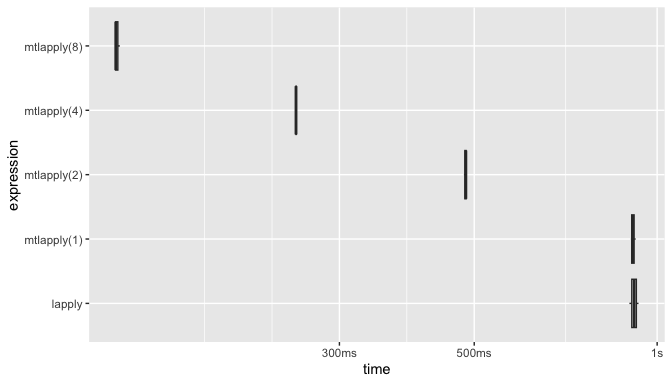
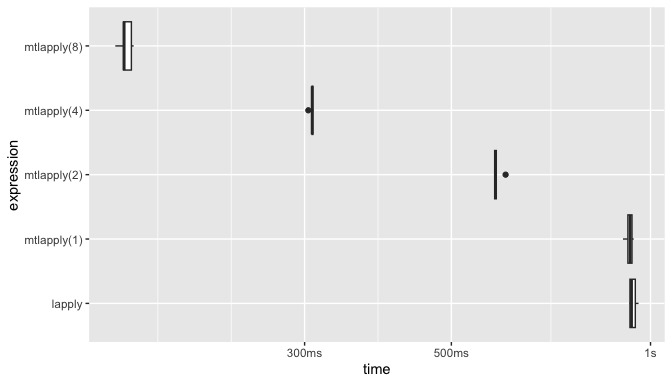
readme: refresh benchmark artifacts

diff --git a/README.md b/README.md
@@ -163,11 +163,11 @@ them:
     ## # A data frame: 5 × 13
     ##   expression    min median `itr/sec` mem_alloc `gc/sec` n_itr  n_gc total_time
     ##   <bch:expr>  <dbl>  <dbl>     <dbl> <bch:byt>    <dbl> <int> <dbl>      <dbl>
-    ## 1 lapply      0.900  0.917      1.09        NA     61.8     3   170      2.75 
-    ## 2 mtlapply(1) 0.905  0.911      1.10        NA     42.4     3   116      2.74 
-    ## 3 mtlapply(2) 0.481  0.484      2.07        NA     37.9     3    55      1.45 
-    ## 4 mtlapply(4) 0.254  0.254      3.93        NA     43.2     3    33      0.764
-    ## 5 mtlapply(8) 0.128  0.129      7.74        NA     36.1     3    14      0.387
+    ## 1 lapply      0.930  0.936      1.06        NA     52.9     5   249      4.70 
+    ## 2 mtlapply(1) 0.909  0.931      1.08        NA     40.5     5   188      4.64 
+    ## 3 mtlapply(2) 0.580  0.583      1.70        NA     31.7     5    93      2.93 
+    ## 4 mtlapply(4) 0.304  0.308      3.25        NA     32.5     5    50      1.54 
+    ## 5 mtlapply(8) 0.155  0.160      6.21        NA     33.6     5    27      0.805
     ## # ℹ 4 more variables: result <list>, memory <list>, time <list>, gc <list>
 
 ![](bench/figures/readme-results-2.png)<!-- -->
